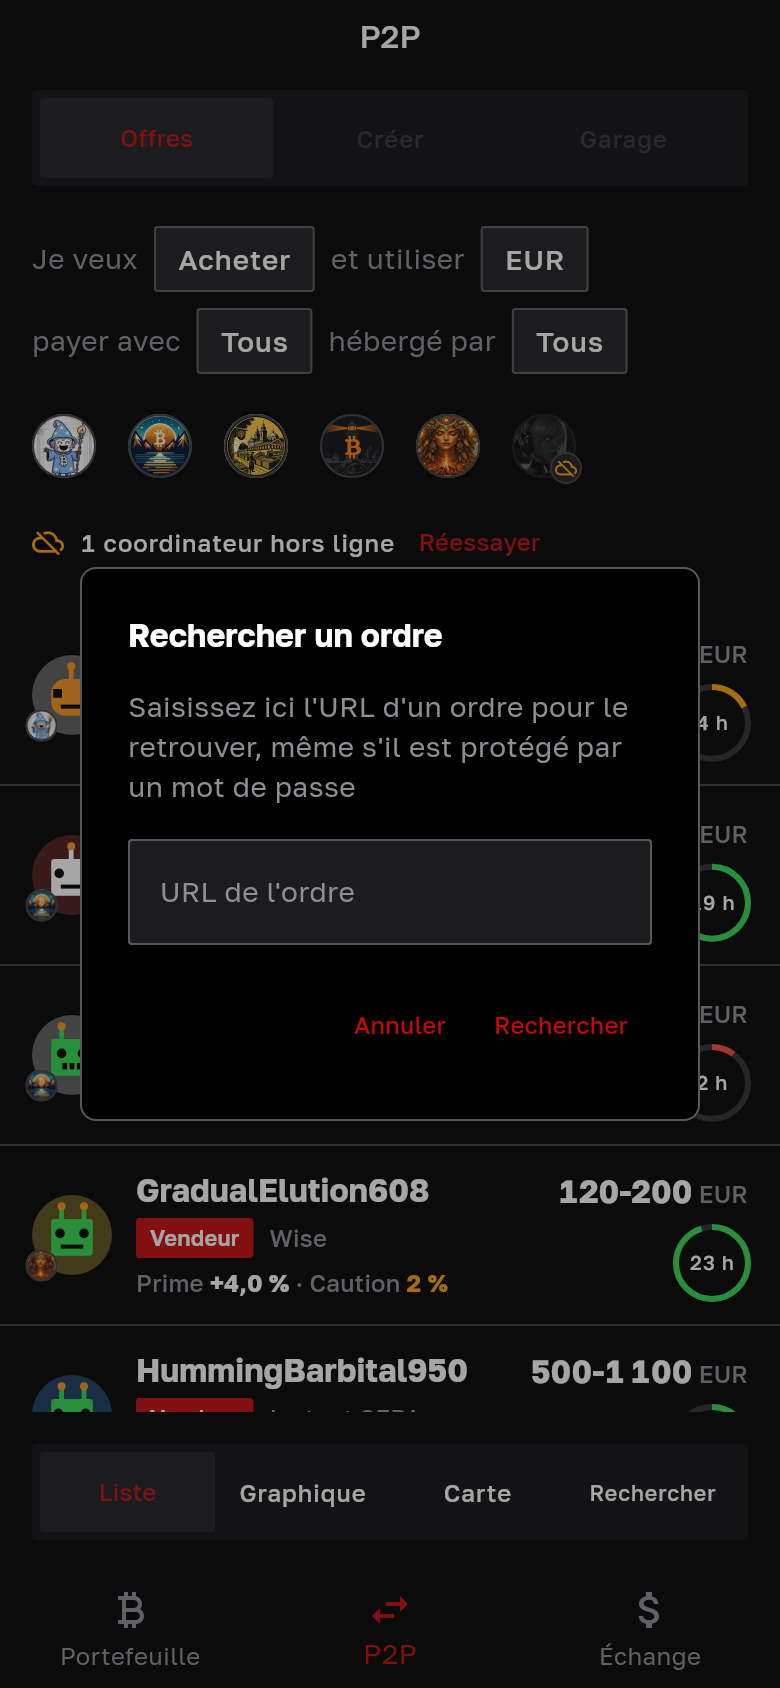
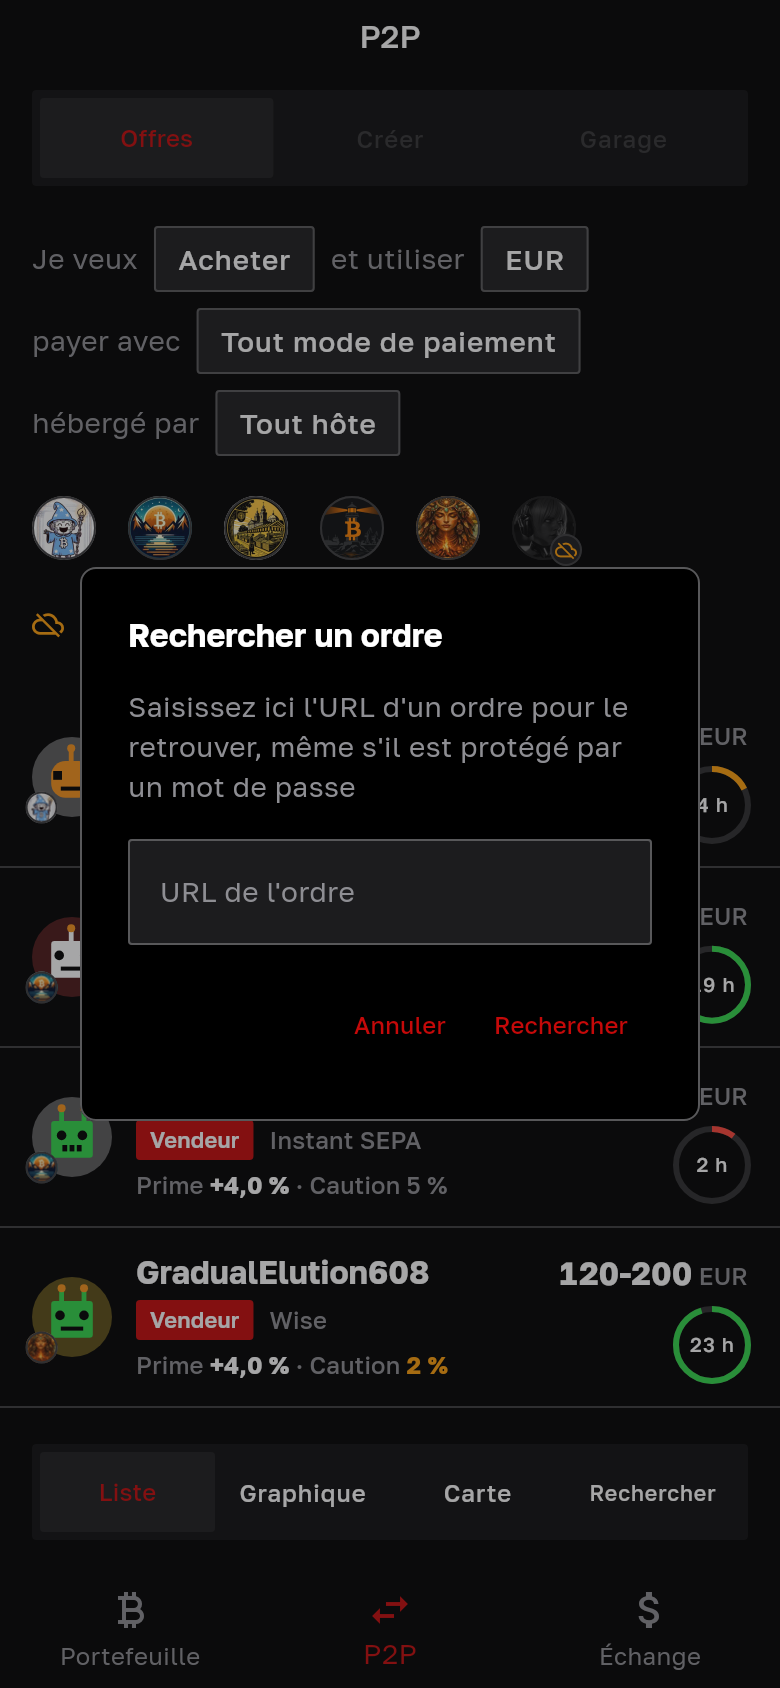
wip(p2p): captures of the filters, screenshots regenerated

diff --git a/test/features/p2p/p2p_screens_capture_test.dart b/test/features/p2p/p2p_screens_capture_test.dart
@@ -710,15 +710,33 @@ void main() {
       await settle();
       await tester.pump(const Duration(seconds: 1));
       await capture('filtres-petit-texte2-feuille');
-      await tester.tap(close);
+      // A tap above the sheet closes it, its title and button having scrolled away with the rows.
+      await tester.tapAt(const Offset(4, 4));
+      await settle();
+      await tester.ensureVisible(find.text(l10n.p2pBookFilterAnyHost));
       await settle();
       await tester.tap(find.text(l10n.p2pBookFilterAnyHost));
       await settle();
       await tester.tap(find.text(host('temple')).last);
       await settle();
-      await tester.tap(find.text(host('freeport')).last);
+      await tester.ensureVisible(find.text(host('lake')).last);
       await settle();
-      await tester.tap(close);
+      await tester.tap(find.text(host('lake')).last);
+      await settle();
+      await tester.tapAt(const Offset(4, 4));
+      await settle();
+      // The end of the sentence, the two hosts, at the top of the book.
+      final scroll = tester
+          .state<ScrollableState>(
+            find.descendant(of: book, matching: find.byType(Scrollable)).first,
+          )
+          .position;
+      scroll.jumpTo(
+        scroll.pixels +
+            tester.getRect(find.text(l10n.p2pBookFilterHostedBy)).top -
+            tester.getRect(book).top -
+            8,
+      );
       await settle();
       await capture('filtres-petit-texte2-plusieurs');
       tester.platformDispatcher.clearTextScaleFactorTestValue();

diff --git a/AGENTS.md b/AGENTS.md
@@ -313,7 +313,7 @@ This repository is Troc, a fork of Bull Bitcoin Mobile. Fork-specific facts live
   The order type stays a single choice, as in the reference: with buy and sell only, both is any, and the order of the book, the empty book's message and « I want to » follow one side.
   Choosing filters asks no coordinator anything: every coordinator is still asked for its book and shown in the row above it, as in the reference, where choosing a host requests nothing either (`refreshBookHosts` only subscribes again to every host's book on Nostr when « ANY » is chosen back, and the book here is read over HTTP).
   Deviations from the reference, each with its reason: several payment methods brings the app to the reference's own behaviour (its filter takes several, `BookControl.tsx` with `AutocompletePayments` `multiple`; the app took one); several currencies and several hosts are the owner's request of 2026-11-13, the reference taking one of each; each selector names its subject while nothing is chosen (« Any type », « Any currency », « Any payment method », « Any host »; « Tout type », « Toute devise », « Tout mode de paiement », « Tout hôte », the reference's French words) where the reference shows « ANY » on all four, the owner's request of 2026-11-13 for clarity, and so the English sentence starts with « I want » while no type is chosen (« I want to [Any type] » is not English) and the empty book says « any currency » where the reference says « ANY »; with several choices a selector shows the first one chosen and how many more (« EUR +2 »), as the reference shows its hidden payment tags, and a screen reader hears the subject and every choice (« Currency: EUR, USD or CHF »); a sheet that takes several choices applies each tap at once, as the reference applies each change, but stays open for the next one where the reference's list closes after each, which choosing several would make tedious, and closing it keeps what was chosen; the payment methods offered are those of the orders the other choices keep, as before, plus those already chosen, so that a choice can always be taken back.
-  `FilterSheet` draws as `BullPickerSheet`, which takes one choice; it lives in the feature rather than in `bull_ui`, which comes from upstream, and is a candidate for promotion there.
+  `FilterSheet` (several choices) and `FilterPickerSheet` (the order type, one choice, closed by it) draw as `BullPickerSheet`, but their title scrolls with their rows: on a phone of 320 points with the text three times as large, `BullPickerSheet`'s fixed title fills the whole sheet in French and leaves its rows no room, which the type's list had before #101. They live in the feature rather than in `bull_ui`, which comes from upstream; fixing `BullPickerSheet` there and promoting them is a follow-up.
 - The Garage (`lib/src/ui/garage/`, #29) is the official client's Garage Key mode, on the device but for the robot panel of its profile (« The robot panel of the Garage » below), the only screen that sends a robot to a coordinator, and nothing to Nostr; it starts in Garage Key mode, with no mode switch and no legacy token mode. Its cubit (`GarageCubit`, one per network, keyed by the wallet's network like the book) reads the vault only when the user opens the Garage, and the Garage is offered only when `P2pFeature.setup` received the vault's handle. With no key: the welcome screen, the wizard (« Generate Garage Key » calls `create`, then the key is read back and shown at once for backup with the official client's alert, since it is never part of the wallet backup; a key is pasted before one is generated, never over a stored one; « Generate new » with a key stored asks « Delete Garage Key? » first, and the PIN when the delete needs it (below), then deletes and draws), and « Robot recovery », where a key is pasted. One rule for a key shown without the PIN: only right after `create`, while the user stays in the Garage with the app in the foreground the whole time from the tap on « Generate Garage Key » or « Generate new »; once the Garage is left or the app hidden or paused, the vault still drawing included, the key is shown only behind the PIN (`GarageView` listens to the app's lifecycle for the whole visit, the wait included, and tells the cubit, which remembers a hide until the next tap); a pasted key is never shown without the PIN. Until the user has seen it and pressed « Continue », or deleted it, `UnacknowledgedGarageKeys` (in memory, written only by `GarageCubit`, whose library keeps its set private) makes each visit show the backup alert with the key behind the PIN, a key drawn while the user left included; it reveals nothing itself, and after the app dies the key is the profile's. A closed cubit never reads the vault. With a key: the profile, whose key stays hidden until the user asks and passes the PIN the wallet asks before it shows its seeds (`AppUnlockFacade.buildReauthenticationGate`, lent by the shell as `P2pFeature.route(reauthenticate:)`, pushed on the root navigator, revealing only on its first callback while its route is on top; without it the key is never shown there) and is hidden again when the app goes to the background (the wallet's seed view does not do this), the robot navigator (robots derived on the device, from robot 0 at each visit: the index is not stored yet), and « Delete All », which deletes the key of this network only after the official confirmation. A read the vault cannot settle shows why, « Retry », and, unless the keystore is only locked, the delete with the same warning. Deleting a key, by « Delete All », « Generate new » or that way out, asks after « Delete Garage Key? », and before anything is deleted, the same re-authentication as showing it, once a robot of the key may live on a coordinator: when a robot index of the key is bound, on either network, or the key is not recorded as drawn here for the network of its slot (imported, acknowledged, drawn before the records, or whose record failed); and always for a slot that cannot be read (a keystore that misbehaved may give its key back later, intact and possibly with robots on coordinators, and nothing tells which key it holds), which covers a key that gives no robot, and so no fingerprint either. The official client asks only the confirmation: deleting the key loses the robots a coordinator knows, and what they hold there, unless the user kept a copy, so Troc asks the PIN of whoever holds the unlocked phone. `NeedsPinToDeleteGarageKeyUsecase` reads it from `p2p.sqlite` (one read-only query of the repository, `exposureOf`) when the user deletes, not when the key was read, says yes without a read for a slot that cannot be read, and says yes when the database cannot be read; `GarageCubit` asks the re-authentication the screen lends it and deletes only once it passed, and a re-authentication left, or none lent, deletes nothing and leaves the screen as it was (nothing but a hide of the app changes the state while it is asked, a second tap and « Retry » meanwhile are ignored, so that the slot it decided on is the one it deletes, and a cubit closed meanwhile deletes nothing). Without the shell's re-authentication such a delete is disabled, as « Show Garage Key » is; the state's `deletionNeedsPin` only greys it, the decision being the read at the delete. An `Error` of the database read is a bug (rule 11) and is not caught: a delete then throws and deletes nothing, and a read of the Garage stays on its wait. A key drawn here, recorded so, with no robot bound, is deleted on the confirmation alone, as in the official client, and a wallet with no PIN passes the re-authentication at once, as for its seeds. Right after a draw whose history could not be recorded, the robot step of the wizard and the profile say so, and that its robots will ask for the user's confirmation before they reach a coordinator, which the acknowledgement of « The robot panel of the Garage » below does (`p2pGarageKeyHistoryNotRecorded`, `GarageWithKey.historyNotRecorded`), until the key is deleted; at a later visit nothing tells such a key from one drawn before the records. The whole Garage is protected from capture with `screen_privacy` and `BullScreenPrivacyGate`, which draws nothing until the protection is on and only a message and « Retry » where the platform refuses it. `GarageKeyView` (`lib/src/ui/widgets/garage_key_view.dart`) is the only widget that turns a key into text: one `Text` kept out of the semantics tree, and the clipboard only through `GarageKeyClipboard`, one per feature, which empties the clipboard 30 seconds later if it still holds that key (compared by reading and parsing it, never by keeping its text; emptied anyway when it cannot be read; emptied at once when the app's lifecycle detaches, best effort, since swiping the app away usually kills the process first); `test/garage_key_view_surface_test.dart` pins its members, the two places `revealBech32` is called, and the file's imports and declarations, so that `Text` and `clipboard.copy` are Flutter's widget and the feature's helper. The copied key is not flagged sensitive: Flutter's `Clipboard.setData` cannot set `EXTRA_IS_SENSITIVE`, so from Android 13 the system shows a preview of the key at each copy, and a keyboard with a clipboard history may keep a copy the 30 seconds do not remove (the wallet's BIP85 copy has the same gap); a small platform channel is to fix it before any release (issue #56). The field where a key is pasted (`GarageKeyField`) has no selection and no text menu, as the wallet's recovery phrase fields (no Copy, Cut, Share or « Translate » that would take the key out of reach of the clearing or to another app), so a « Paste » button reads the clipboard once on the user's tap, takes the focus away from the field so that a pasted key is never sent to the keyboard (and writes nothing if the field took the focus back meanwhile), and « Clear » empties it; no selection can be made from the app's own interface or a hardware keyboard, but the system keyboard's own editing tools can still select, cut and copy a typed key while the field has focus (Android's input connection does it without asking Flutter, `InputConnectionAdaptor` of the engine), and the keyboard sees what is typed: a read-only field with an in-app keyboard, as the wallet's, and the sensitive clipboard flag are issue #56; it tells the keyboard not to learn, suggest, correct or autofill (`autofillHints: null`), cleans the text as the official client does (whitespace removed, lower case), shows its validator's reasons, and keeps the text out of the semantics tree as the wallet's recovery phrase fields do, its label, error and buttons staying in it; `GarageKey.parse` checks it before anything is stored, and the text stays in the field's controller. Links of the wizard (support group, documentation) are shown for copy, never opened. Cubit states hold a `NetworkGarageKey` and the public face of a robot (number, nickname, hash id), never a key's text or a token; `test/garage_key_output_test.dart` pins that the files that handle a key neither import nor name anything that prints or logs, and the cubit and screen tests capture prints and the logger's file over every path.
 - Tor in the P2P tab: each entry in the tab builds a new book, which calls `ensureReady` on the embedded Tor, waits for it to be ready, then asks every coordinator again. P2P always uses the embedded Tor, even when the wallet is set to an external Tor proxy. Tor and the sessions to the coordinators stay up after leaving the tab. « Retry » is offered only when Tor failed to start, and it restarts the embedded Tor that the whole wallet shares. The wait shows the three steps of the official Android client and a bar that runs, and two things the official client does not show, both asked for by the owner (#68). First, the share of its start that Arti reports (`TorConnecting.progress` of `bull_tor`, which the feature carries as `P2pTorReport` without any change to `bull_tor`, and which `TorWait.percentAfter` turns into the percentage shown): none before Tor reports a share, whole percent rounded down, at most 99 % until Tor is ready (`bull_tor` reports a full share during the 5 seconds it holds readiness), never lower during one attempt, from nothing again at each new attempt (`bull_tor` reports a stop or a connecting state without a share before the Snowflake fallback and « Retry »), and none once Tor is ready or has failed; the bar is filled to it and keeps running over the fill, so it never stands still before Tor is ready, except with reduced motion, where the run stops once a percentage is shown and the fill and the number carry the progress (before any share it runs, as decided in #62); the room of the percentage is kept for the whole wait, so nothing moves when it comes. Second, under the bar, twelve phrases of Troc's own, approved by the owner, one every 2 seconds (`TorWaitPhrases`, keys `p2pTorWaitPhrase1` to `12`), in an order `P2pShuffle` draws at each wait; `P2pShuffle` is injected like `P2pClock` (random in the app, unshuffled in the test seam), so no widget draws at random. Keep that widget light: one timer and one animation controller (the gear and the fade), both ended in its `dispose`, a change of phrase rebuilding only itself, the room of the largest phrase kept so that nothing moves, no turning gear and no fade under reduced motion, and the phrases out of the semantics tree so that a screen reader does not read a new one every 2 seconds.
 - The book of the P2P tab asks again by itself a coordinator whose request got no answer before it shows it offline, which the official client does not do (its `loadBook` asks each coordinator once, `frontend/src/models/Federation.model.ts` at commit ff1998c; a request in flight is joined, which Troc does too): the owner asked for it (#73), since the first requests after a cold start of Tor are the ones that fail (`docs/spikes/`). The rule is `BookRetry`: only a failure that says nothing was answered (`CoordinatorUnreachable`, `CoordinatorTimedOut`, `CoordinatorTransportBusy`) is asked again, and a coordinator that answered something unusable, or something that is not HTTP (`CoordinatorTransportFailed`, which the transport does not retry either, its other causes not passing), is offline at once; a coordinator that has not given its book yet in this book gets two more attempts, about 5 then 15 seconds after the failed ones, and one that has gets one more after about 5 seconds, each wait spread by up to 20 % at random. Each attempt is a whole request of the transport (up to 132 seconds and three Tor sessions), so the attempts of a coordinator that times out every time last about seven minutes; it is shown awaited 80 seconds at most from the moment it is asked (`BookRetry.awaitedAtMost`, the project's decision of #73: the third attempt of a fast failure starts 46 to 54 seconds in, with the spread, and the slowest cold first contact measured took 23.2 seconds once Tor was ready, so 80 seconds covers the measured cases and stays bearable to look at), then shown offline while its attempts go on silently within the rule, a late answer still lighting it and adding its offers. `LoadFederationBooksUsecase` runs the rule, one instance per book, which remembers the coordinators that gave their book to it; the book requests in flight are kept by `BookRequestsInFlight`, a lazy singleton of the feature keyed by network and coordinator, so that no book, of this visit to the tab or of a later one, sends a second book request to a coordinator while one runs: it joins it, as the official client's coordinators keep their `_bookPromise` for the whole app (a book that is left cancels only its own attempts; a request whose books are all gone runs to its end, within the transport's 132 seconds, and is forgotten then, and a request that has ended is never handed to a book that asks after it); its timers and draws come from `P2pWaits`, injected like `P2pClock` (real timers and a random draw in the locator, the test zone's timers and no spread in the test seam), so no use case or cubit starts a timer or draws by itself. « Retry » (the offline ones) and a pull to refresh (all) give those they ask all their attempts again and a new 80 seconds, joining a request still in flight; a refresh ends the waits, leaving the tab ends them all, bounds included, and a Tor that reports failed under the book ends them and shows offline at once those waiting to be asked again. The indicator of a pull, and what « Retry » awaits, closes once every coordinator asked has answered or is shown offline, and in any case 10 seconds after (`BookRetry.refreshAtMost`): the row carries the rest. Above the offers and above the depth chart, `CoordinatorsRow` (`lib/src/ui/widgets/coordinators_row.dart`) shows the image of each coordinator of the network in the order of the federation, lit once its book has arrived, dimmed with a clock while it is awaited, grey with an offline mark after its last attempt, and a line under it: « N of M coordinators answered » while any is awaited and once all are, « N coordinators offline » with « Retry » once none is. It is a deviation from the official client, which shows only a bar over its book while any coordinator loads, asked for by the owner (#73, option A): it stays once the offers are shown, whatever the « hosted by » filter, and a tap on an image opens the coordinator's dialog and does nothing else. It replaced the orange banner that listed each offline coordinator with its reason. A coordinator that answered something unusable (a body too large, an unexpected status, a body that is not JSON or not a book, an answer that is not HTTP) is shown offline in the row like one that did not answer, its image grey with the offline mark and its node saying « offline »: a rule decided in #73, since for the user it has no offers to show; the coordinator dialog, which reads `/api/info/` itself, shows its details when that answers, and the Select Host sheet of the Garage notes « Coordinator offline » of a coordinator the book could not reach or whose answer was too large, not of one that answered something else. Keep it light and still: one animation controller, which pulses the awaited images only while one is awaited and never with reduced motion (the clock is the sign either way); the line keeps the room of its largest form with figures of one width, so nothing moves when it changes; each image is one semantics node, its name and its state, with no live region; images of 32 points in targets of 48 fit six at 320 points, and more wrap to a second line.
